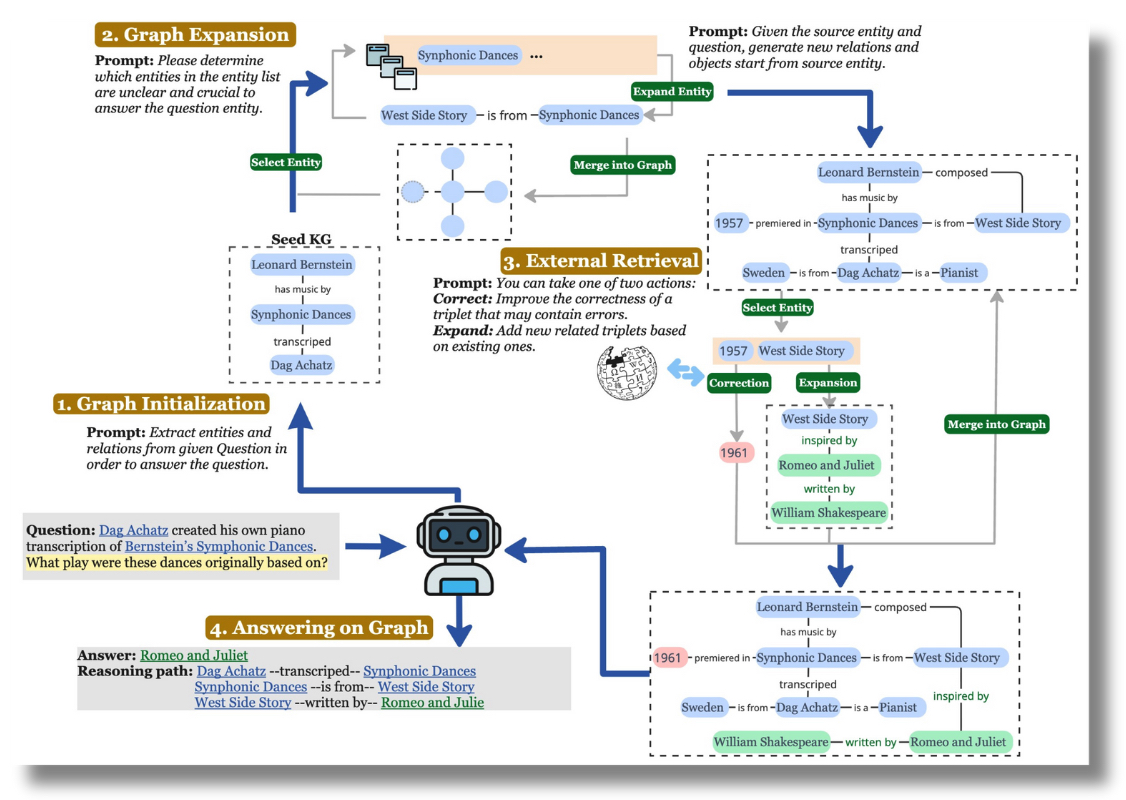
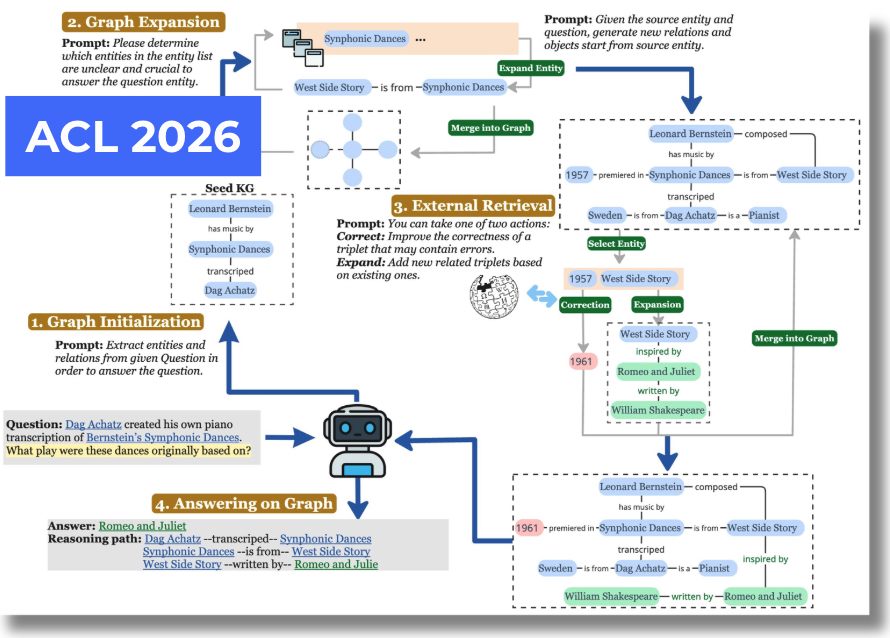
update paper status

Changed region(s): [[0.0, 0.0, 1.0, 1.0]]

diff --git a/_pages/about.md b/_pages/about.md
@@ -14,7 +14,8 @@ My research focuses on developing the next generation of autonomous AI agents, w
 
 News
 ======
-- 2026.02: 🎉🎉 Our paper *Memory in LLM-based Multi-agent Systems: Mechanisms, Challenges, and Collective Intelligence* is accepted by PAKDD 2026!
+- 2026.04: 🎉🎉 Our paper *Improving Factuality in LLMs via Inference-Time Knowledge Graph Construction* is accepted by **ACL findings 2026**! See you in San Diego!
+- 2026.02: 🎉🎉 Our paper *Memory in LLM-based Multi-agent Systems: Mechanisms, Challenges, and Collective Intelligence* is accepted by **PAKDD 2026**!
 - 2025.07: 🎉🎉 Completed my internship in Microsft Research Asia Alumni!
 
 Research Experience
